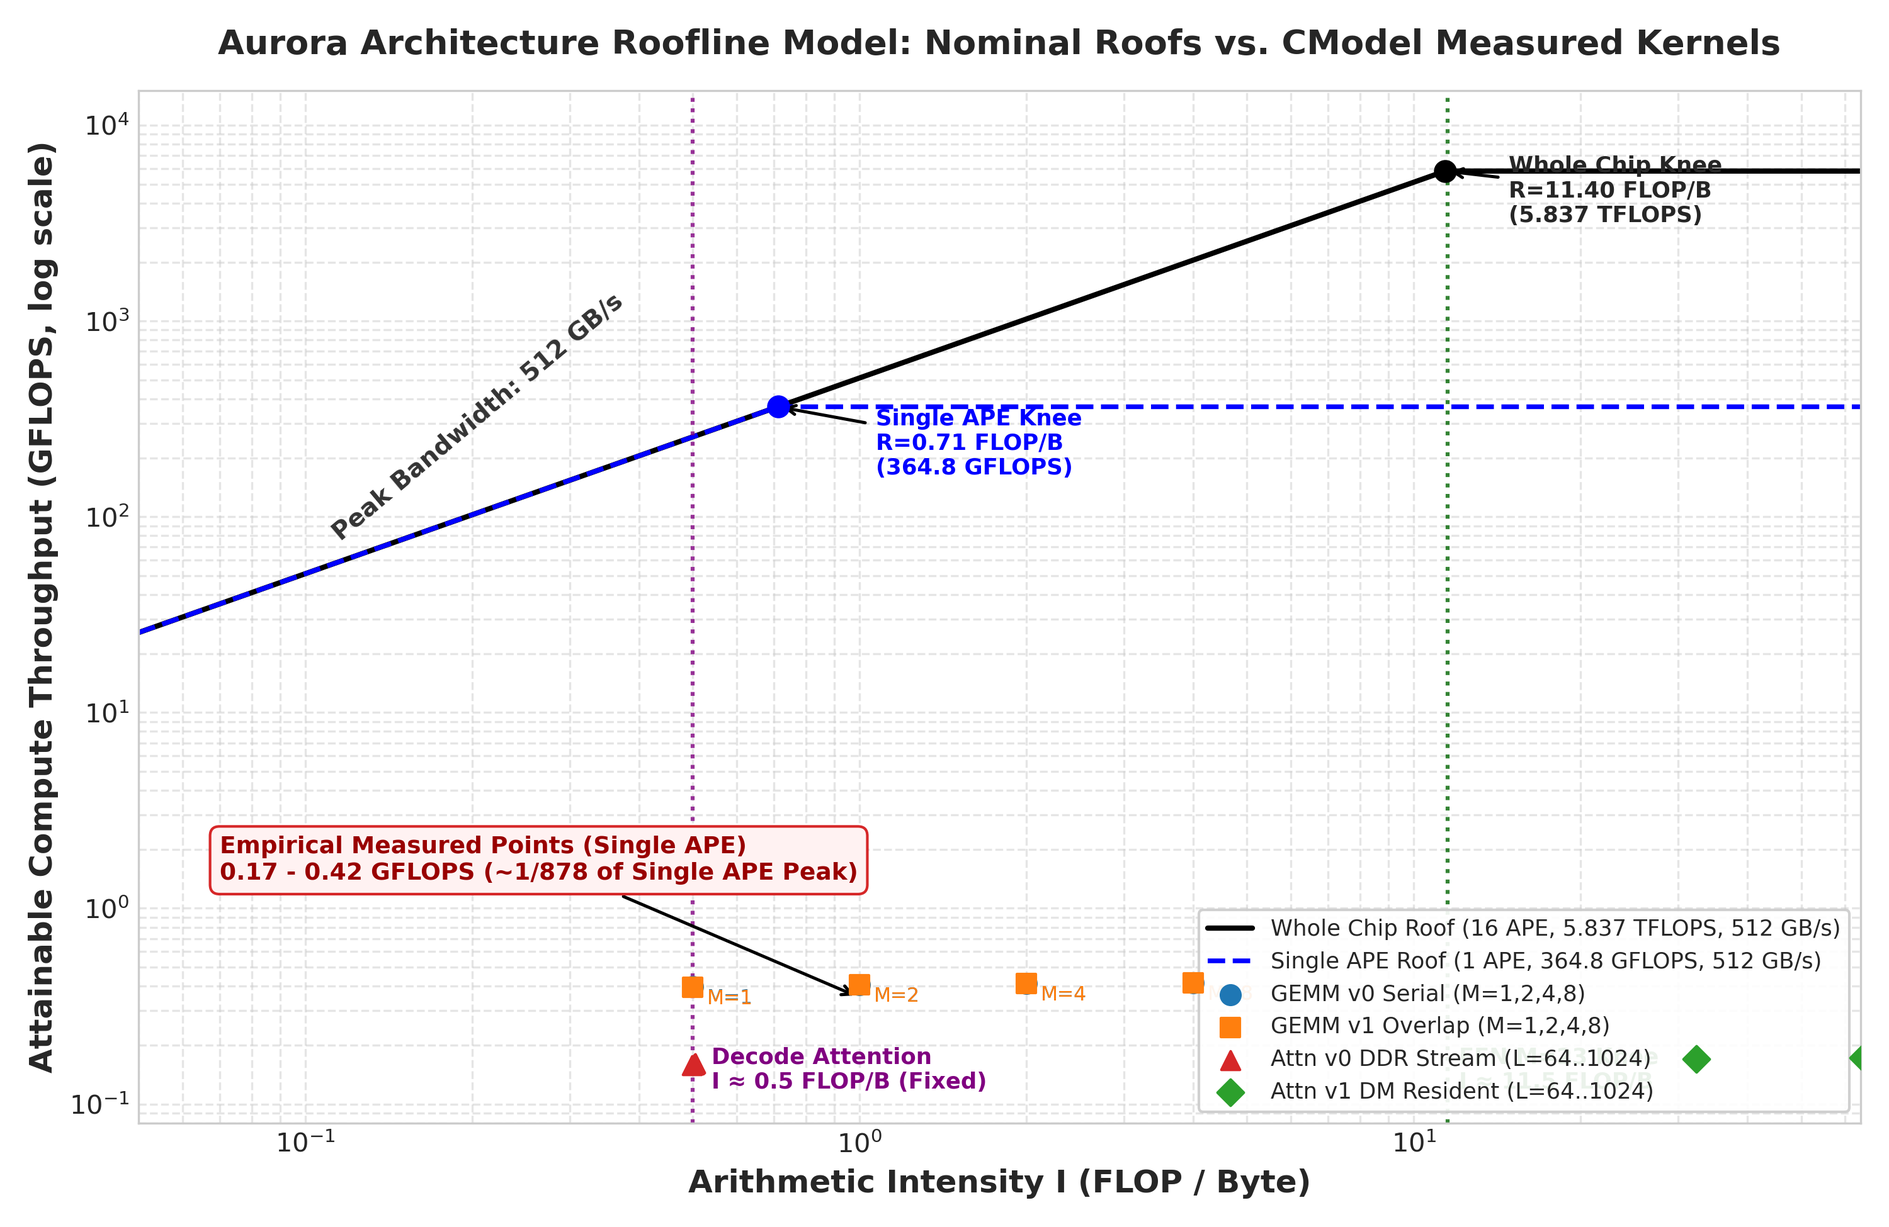
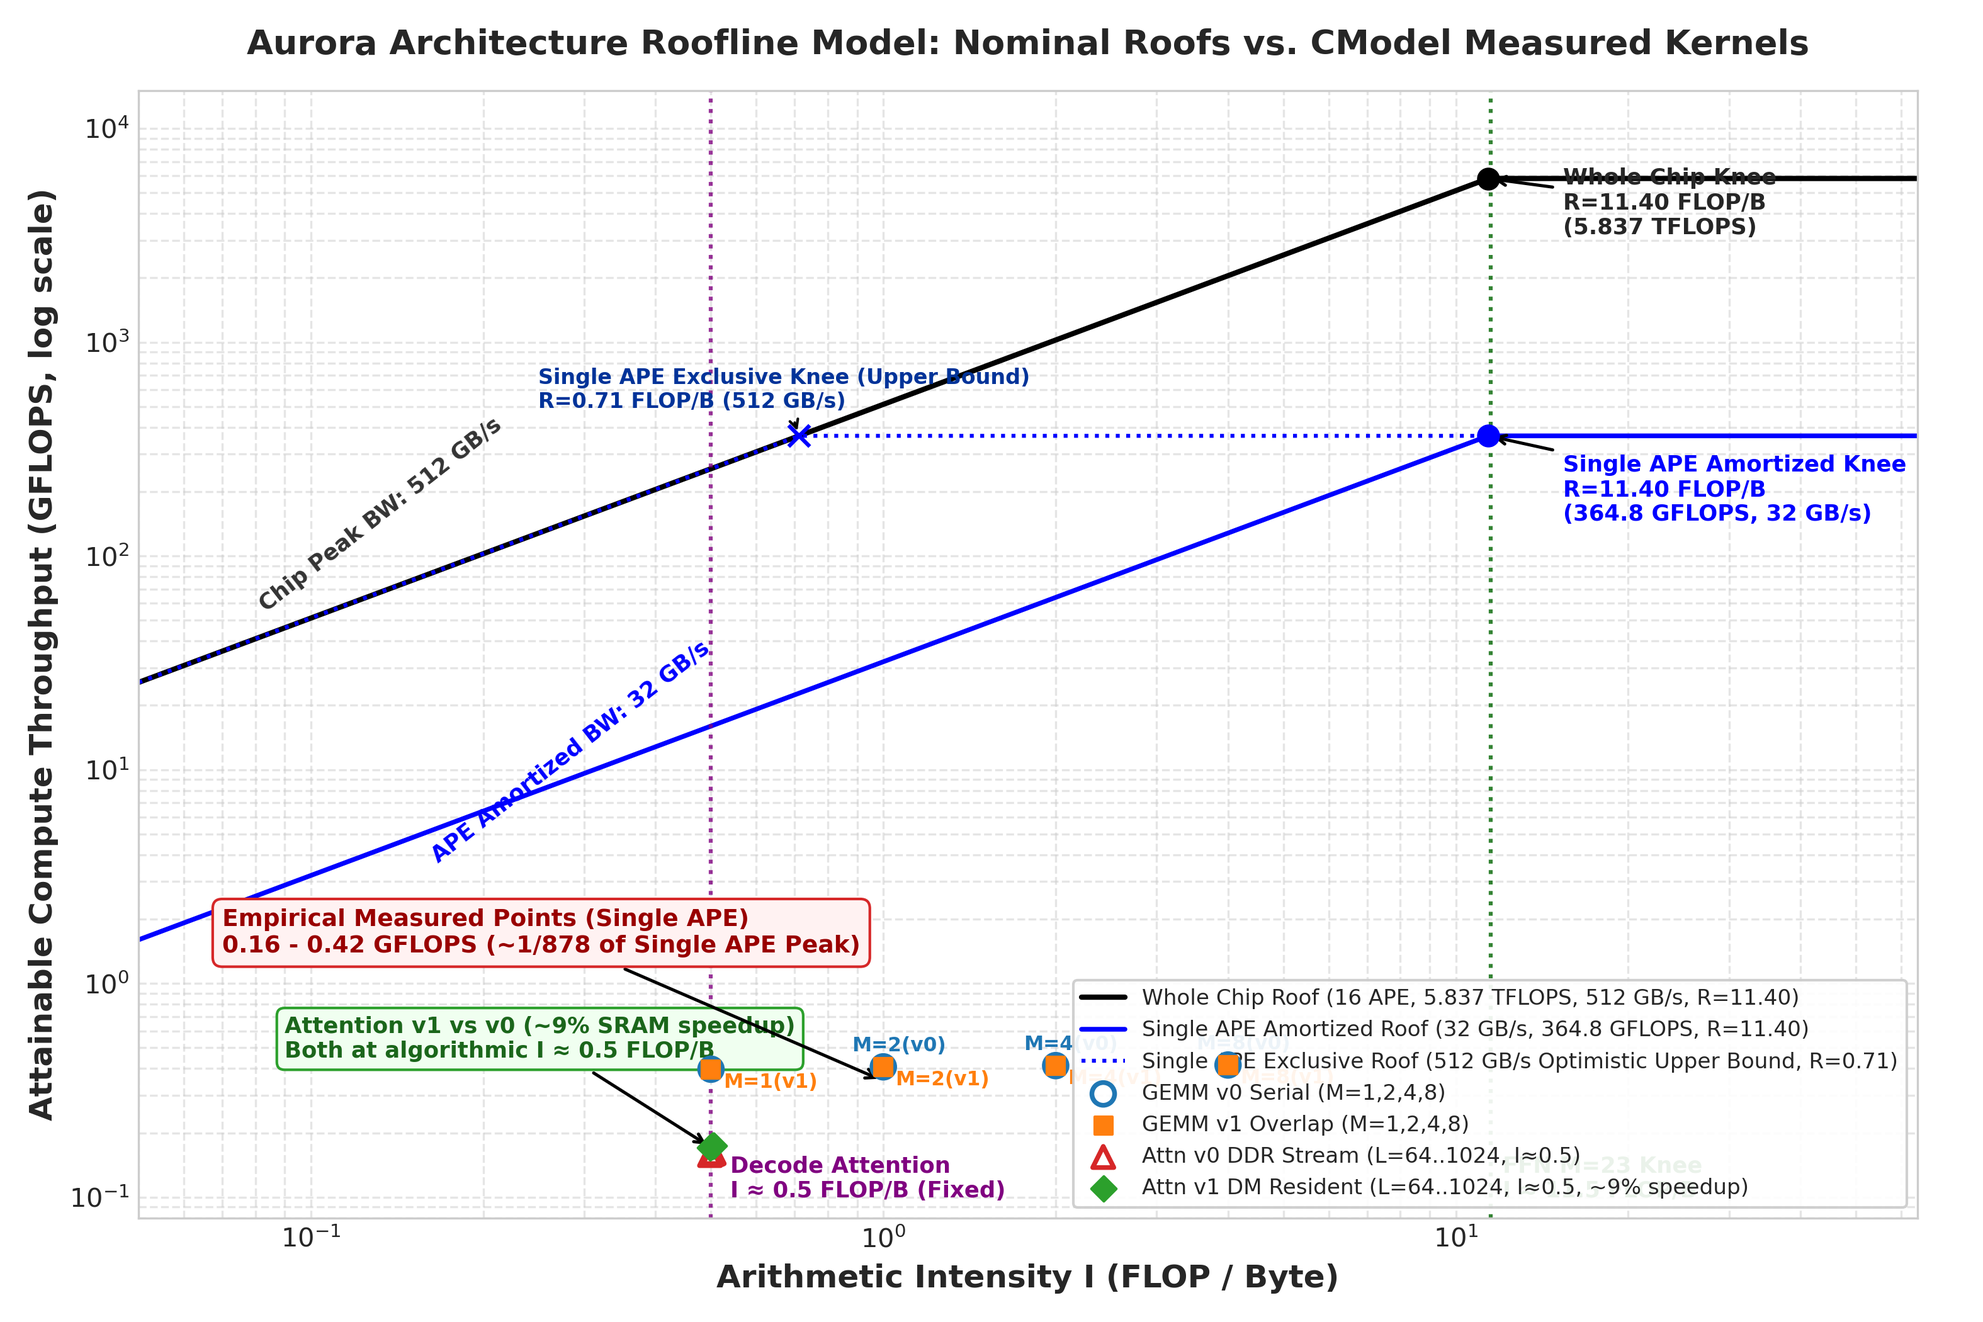
fix(roofline): unify bandwidth caliber to amortized 32GB/s with exclusive upper bound, fix attention v1 intensity to 0.5, and resolve marker occlusion

diff --git a/scripts/plot.py b/scripts/plot.py
@@ -207,16 +207,19 @@ def plot_roofline():
     gemm_path = os.path.join(RESULTS_DIR, "gemm.csv")
     attn_path = os.path.join(RESULTS_DIR, "decode_attn.csv")
 
-    fig, ax = plt.subplots(figsize=(10, 6.5), dpi=300)
+    fig, ax = plt.subplots(figsize=(10.5, 7.0), dpi=300)
 
     # 1. Hardware Specifications (Vendor derived)
-    peak_bw = 512.0  # GB/s
-    peak_flops_chip = 5836.8  # GFLOPS (5.837 TFLOPS)
-    peak_flops_ape = 364.8    # GFLOPS (Single APE)
+    peak_bw_chip = 512.0          # GB/s (Whole chip GDDR6)
+    peak_bw_ape_amortized = 512.0 / 16.0  # 32.0 GB/s (Amortized per APE)
+    peak_flops_chip = 5836.8      # GFLOPS (5.837 TFLOPS)
+    peak_flops_ape = 364.8        # GFLOPS (Single APE)
     freq_ghz = 1.425
 
-    r_chip = peak_flops_chip / peak_bw  # 11.40 FLOP/byte
-    r_ape = peak_flops_ape / peak_bw    # 0.7125 FLOP/byte
+    # Knee points (R = FLOPs / Byte)
+    r_chip = peak_flops_chip / peak_bw_chip                  # 11.40 FLOP/byte
+    r_ape_amortized = peak_flops_ape / peak_bw_ape_amortized  # 11.40 FLOP/byte (Scale-invariant)
+    r_ape_exclusive = peak_flops_ape / peak_bw_chip          # 0.7125 FLOP/byte (Optimistic upper bound)
 
     # X range for intensity
     i_min = 0.05
@@ -224,66 +227,104 @@ def plot_roofline():
     i_vals = np.logspace(np.log10(i_min), np.log10(i_max), 500)
 
     # Roofline curves
-    roof_chip = np.minimum(peak_bw * i_vals, peak_flops_chip)
-    roof_ape = np.minimum(peak_bw * i_vals, peak_flops_ape)
+    roof_chip = np.minimum(peak_bw_chip * i_vals, peak_flops_chip)
+    roof_ape_amortized = np.minimum(peak_bw_ape_amortized * i_vals, peak_flops_ape)
+    roof_ape_exclusive = np.minimum(peak_bw_chip * i_vals, peak_flops_ape)
 
     # Plot roofs
-    ax.plot(i_vals, roof_chip, 'k-', linewidth=2.0, label='Whole Chip Roof (16 APE, 5.837 TFLOPS, 512 GB/s)')
-    ax.plot(i_vals, roof_ape, 'b--', linewidth=1.8, label='Single APE Roof (1 APE, 364.8 GFLOPS, 512 GB/s)')
+    ax.plot(i_vals, roof_chip, 'k-', linewidth=2.0, label='Whole Chip Roof (16 APE, 5.837 TFLOPS, 512 GB/s, R=11.40)')
+    ax.plot(i_vals, roof_ape_amortized, 'b-', linewidth=1.8, label='Single APE Amortized Roof (32 GB/s, 364.8 GFLOPS, R=11.40)')
+    ax.plot(i_vals, roof_ape_exclusive, 'b:', linewidth=1.5, label='Single APE Exclusive Roof (512 GB/s Optimistic Upper Bound, R=0.71)')
 
-    # Bandwidth slope text
-    ax.text(0.11, 512 * 0.11 * 1.35, 'Peak Bandwidth: 512 GB/s', rotation=40, fontsize=9.5, fontweight='bold', color='#333333')
+    # Bandwidth slope texts
+    ax.text(0.08, 512 * 0.08 * 1.35, 'Chip Peak BW: 512 GB/s', rotation=38, fontsize=8.5, fontweight='bold', color='#333333')
+    ax.text(0.16, 32 * 0.16 * 0.72, 'APE Amortized BW: 32 GB/s', rotation=38, fontsize=8.5, fontweight='bold', color='blue')
 
     # Knee points
     ax.scatter([r_chip], [peak_flops_chip], color='black', s=60, zorder=5)
     ax.annotate(f'Whole Chip Knee\nR={r_chip:.2f} FLOP/B\n(5.837 TFLOPS)',
-                xy=(r_chip, peak_flops_chip), xytext=(r_chip * 1.3, peak_flops_chip * 0.55),
+                xy=(r_chip, peak_flops_chip), xytext=(r_chip * 1.35, peak_flops_chip * 0.55),
                 arrowprops=dict(facecolor='black', arrowstyle='->', lw=1.2),
                 fontsize=8.5, fontweight='bold')
 
-    ax.scatter([r_ape], [peak_flops_ape], color='blue', s=60, zorder=5)
-    ax.annotate(f'Single APE Knee\nR={r_ape:.2f} FLOP/B\n(364.8 GFLOPS)',
-                xy=(r_ape, peak_flops_ape), xytext=(r_ape * 1.5, peak_flops_ape * 0.45),
+    ax.scatter([r_ape_amortized], [peak_flops_ape], color='blue', s=60, zorder=5)
+    ax.annotate(f'Single APE Amortized Knee\nR={r_ape_amortized:.2f} FLOP/B\n(364.8 GFLOPS, 32 GB/s)',
+                xy=(r_ape_amortized, peak_flops_ape), xytext=(r_ape_amortized * 1.35, peak_flops_ape * 0.40),
                 arrowprops=dict(facecolor='blue', arrowstyle='->', lw=1.2),
                 fontsize=8.5, fontweight='bold', color='blue')
 
+    ax.scatter([r_ape_exclusive], [peak_flops_ape], color='blue', marker='x', s=65, zorder=5)
+    ax.annotate(f'Single APE Exclusive Knee (Upper Bound)\nR={r_ape_exclusive:.2f} FLOP/B (512 GB/s)',
+                xy=(r_ape_exclusive, peak_flops_ape), xytext=(r_ape_exclusive * 0.35, peak_flops_ape * 1.35),
+                arrowprops=dict(facecolor='blue', arrowstyle='->', lw=1.0),
+                fontsize=8.0, fontweight='bold', color='#003399')
+
     # Vertical reference lines
     ax.axvline(0.5, color='purple', linestyle=':', linewidth=1.5, alpha=0.8)
-    ax.text(0.5 * 1.08, 0.12, 'Decode Attention\nI ≈ 0.5 FLOP/B (Fixed)', color='purple', fontsize=8.5, fontweight='bold')
+    ax.text(0.5 * 1.08, 0.10, 'Decode Attention\nI ≈ 0.5 FLOP/B (Fixed)', color='purple', fontsize=8.5, fontweight='bold')
 
     ax.axvline(23.0 / 2.0, color='darkgreen', linestyle=':', linewidth=1.5, alpha=0.8)
-    ax.text((23.0 / 2.0) * 1.05, 0.12, 'FFN M=23 Knee\nI ≈ 11.5 FLOP/B', color='darkgreen', fontsize=8.5, fontweight='bold')
+    ax.text((23.0 / 2.0) * 1.05, 0.10, 'FFN M=23 Knee\nI ≈ 11.5 FLOP/B', color='darkgreen', fontsize=8.5, fontweight='bold')
 
     # 2. Empirical Measured Data Points strictly from CSVs
     if os.path.exists(gemm_path):
         df_g = read_measured_csv(gemm_path)
         g_agg = df_g.groupby(['version', 'M'])[['flops_per_cycle']].mean().reset_index()
-        for ver, color, marker, lbl in [('v0', '#1f77b4', 'o', 'GEMM v0 Serial (M=1,2,4,8)'),
-                                        ('v1', '#ff7f0e', 's', 'GEMM v1 Overlap (M=1,2,4,8)')]:
-            sub = g_agg[g_agg['version'] == ver].sort_values('M')
-            if not sub.empty:
-                i_gemm = sub['M'].values / 2.0  # I = M / 2
-                gflops_gemm = sub['flops_per_cycle'].values * freq_ghz
-                ax.scatter(i_gemm, gflops_gemm, color=color, marker=marker, s=55, label=lbl, zorder=6)
-                for _, row in sub.iterrows():
-                    m_val = int(row['M'])
-                    x_pt = m_val / 2.0
-                    y_pt = row['flops_per_cycle'] * freq_ghz
-                    ax.text(x_pt * 1.06, y_pt * 0.82, f"M={m_val}", fontsize=7.5, color=color)
+
+        # GEMM v0: hollow blue circle
+        sub_v0 = g_agg[g_agg['version'] == 'v0'].sort_values('M')
+        if not sub_v0.empty:
+            i_gemm_v0 = sub_v0['M'].values / 2.0  # I = M / 2
+            gflops_gemm_v0 = sub_v0['flops_per_cycle'].values * freq_ghz
+            ax.scatter(i_gemm_v0, gflops_gemm_v0, facecolors='none', edgecolors='#1f77b4', marker='o', s=75, linewidth=1.8, label='GEMM v0 Serial (M=1,2,4,8)', zorder=6)
+            for _, row in sub_v0.iterrows():
+                m_val = int(row['M'])
+                x_pt = m_val / 2.0
+                y_pt = row['flops_per_cycle'] * freq_ghz
+                ax.text(x_pt * 0.88, y_pt * 1.18, f"M={m_val}(v0)", fontsize=7.5, color='#1f77b4', fontweight='bold')
+
+        # GEMM v1: solid orange square
+        sub_v1 = g_agg[g_agg['version'] == 'v1'].sort_values('M')
+        if not sub_v1.empty:
+            i_gemm_v1 = sub_v1['M'].values / 2.0  # I = M / 2
+            gflops_gemm_v1 = sub_v1['flops_per_cycle'].values * freq_ghz
+            ax.scatter(i_gemm_v1, gflops_gemm_v1, color='#ff7f0e', marker='s', s=45, label='GEMM v1 Overlap (M=1,2,4,8)', zorder=7)
+            for _, row in sub_v1.iterrows():
+                m_val = int(row['M'])
+                x_pt = m_val / 2.0
+                y_pt = row['flops_per_cycle'] * freq_ghz
+                ax.text(x_pt * 1.05, y_pt * 0.82, f"M={m_val}(v1)", fontsize=7.5, color='#ff7f0e', fontweight='bold')
 
     if os.path.exists(attn_path):
         df_a = read_measured_csv(attn_path)
         a_agg = df_a.groupby(['version', 'L'])[['flops', 'total_bytes', 'device_cycles']].mean().reset_index()
-        for ver, color, marker, lbl in [('v0', '#d62728', '^', 'Attn v0 DDR Stream (L=64..1024)'),
-                                        ('v1', '#2ca02c', 'D', 'Attn v1 DM Resident (L=64..1024)')]:
-            sub = a_agg[a_agg['version'] == ver].sort_values('L')
-            if not sub.empty:
-                i_attn = (sub['flops'] / sub['total_bytes']).values
-                gflops_attn = (sub['flops'] / sub['device_cycles']).values * freq_ghz
-                ax.scatter(i_attn, gflops_attn, color=color, marker=marker, s=50, label=lbl, zorder=6)
+
+        # For Decode Attention, both v0 and v1 use complete algorithmic memory traffic:
+        # 2 * L * d * 4 + 512 bytes (with d=64, 512*L + 512 bytes)
+        # This places both v0 and v1 at I ≈ 0.5 FLOP/byte
+        sub_v0 = a_agg[a_agg['version'] == 'v0'].sort_values('L')
+        if not sub_v0.empty:
+            total_algo_bytes_v0 = 2 * sub_v0['L'].values * 64 * 4 + 512
+            i_attn_v0 = sub_v0['flops'].values / total_algo_bytes_v0
+            gflops_attn_v0 = (sub_v0['flops'].values / sub_v0['device_cycles'].values) * freq_ghz
+            ax.scatter(i_attn_v0, gflops_attn_v0, facecolors='none', edgecolors='#d62728', marker='^', s=65, linewidth=1.8, label='Attn v0 DDR Stream (L=64..1024, I≈0.5)', zorder=6)
+
+        sub_v1 = a_agg[a_agg['version'] == 'v1'].sort_values('L')
+        if not sub_v1.empty:
+            total_algo_bytes_v1 = 2 * sub_v1['L'].values * 64 * 4 + 512
+            i_attn_v1 = sub_v1['flops'].values / total_algo_bytes_v1
+            gflops_attn_v1 = (sub_v1['flops'].values / sub_v1['device_cycles'].values) * freq_ghz
+            ax.scatter(i_attn_v1, gflops_attn_v1, color='#2ca02c', marker='D', s=45, label='Attn v1 DM Resident (L=64..1024, I≈0.5, ~9% speedup)', zorder=7)
+
+        # Annotation highlighting the ~9% on-chip residency speedup at I≈0.5
+        ax.annotate("Attention v1 vs v0 (~9% SRAM speedup)\nBoth at algorithmic I ≈ 0.5 FLOP/B",
+                    xy=(0.50, 0.171), xytext=(0.09, 0.45),
+                    arrowprops=dict(facecolor='#2ca02c', arrowstyle='->', lw=1.2),
+                    bbox=dict(boxstyle="round,pad=0.35", fc="#f0fff0", ec="#2ca02c", lw=1),
+                    fontsize=8.5, fontweight='bold', color='#1b661b')
 
     # Empirical cluster annotation showing the ~1/878 gap
-    ax.annotate("Empirical Measured Points (Single APE)\n0.17 - 0.42 GFLOPS (~1/878 of Single APE Peak)",
+    ax.annotate("Empirical Measured Points (Single APE)\n0.16 - 0.42 GFLOPS (~1/878 of Single APE Peak)",
                 xy=(1.0, 0.35), xytext=(0.07, 1.4),
                 arrowprops=dict(facecolor='#d62728', arrowstyle='->', lw=1.2),
                 bbox=dict(boxstyle="round,pad=0.4", fc="#fff2f2", ec="#d62728", lw=1),
@@ -300,7 +341,7 @@ def plot_roofline():
                  fontsize=13, fontweight='bold', pad=14)
 
     ax.grid(True, which="both", ls="--", alpha=0.5)
-    ax.legend(loc='lower right', frameon=True, framealpha=0.92, fontsize=8.5)
+    ax.legend(loc='lower right', frameon=True, framealpha=0.92, fontsize=8.2)
 
     out_file = os.path.join(FIGURES_DIR, "roofline.png")
     fig.tight_layout()

diff --git a/notes/vendor_specs.md b/notes/vendor_specs.md
@@ -57,14 +57,25 @@
 4. **硬件时钟周期物理时长**：
    - 公式：$$1 \text{ cycle} = \frac{1}{1.425 \times 10^9 \text{ Hz}} \approx \mathbf{0.701754 \text{ ns}} \approx \mathbf{0.7018 \text{ ns}}$$（推导值，非厂商标称）
 
-5. **Roofline 理论拐点 $R$ (Arithmetic Intensity Turn-Point)**：
+5. **Roofline 理论拐点 $R$ (Arithmetic Intensity Turn-Point) 与片外带宽分配假设**：
    - 拐点公式：$$R = \frac{\text{理论峰值算力}}{\text{理论峰值带宽}}$$
-   - **整芯片口径**（16 APE 共享 512 GB/s 带宽）：
-     $$R_{\text{chip}} = \frac{5836.8 \text{ GFLOPS}}{512 \text{ GB/s}} = \mathbf{11.40 \text{ FLOP/byte}}$$（推导值，非厂商标称）
-   - **单 APC 口径**（4 APE 对应 512 GB/s 带宽）：
-     $$R_{\text{apc}} = \frac{1459.2 \text{ GFLOPS}}{512 \text{ GB/s}} = \mathbf{2.85 \text{ FLOP/byte}}$$（推导值，非厂商标称）
-   - **单 APE 口径**（单 APE 独立对应 512 GB/s 带宽，微基准口径）：
-     $$R_{\text{ape}} = \frac{364.8 \text{ GFLOPS}}{512 \text{ GB/s}} = \mathbf{0.7125 \text{ FLOP/byte}} \approx \mathbf{0.71 \text{ FLOP/byte}}$$（推导值，非厂商标称）
+   - **片外带宽分配假设与两种口径对比**：
+     - **均摊口径 (Amortized Caliber，主用/系统基准口径)**：
+       假设整芯片 512 GB/s 的 GDDR6 物理总带宽在 16 个 APE 间对称均摊。
+       - 单 APE 平均可用峰值带宽：$$512 \text{ GB/s} \div 16 = \mathbf{32 \text{ GB/s}}$$（折合单时钟周期 $32 \times 10^9 / 1.425 \times 10^9 \approx \mathbf{22.45 \text{ 字节/周期}}$，推导值，非厂商标称）
+       - 单 APC（4 APE）平均可用峰值带宽：$$512 \text{ GB/s} \div 4 = \mathbf{128 \text{ GB/s}}$$（推导值，非厂商标称）
+       - **尺度不变性**：当带宽按核数等比例分配时，拐点在整芯片、单 APC、单 APE 任何粒度下**恒为 11.40 FLOP/byte**：
+         $$R_{\text{chip}} = \frac{5836.8 \text{ GFLOPS}}{512 \text{ GB/s}} = \mathbf{11.40 \text{ FLOP/byte}}$$（推导值，非厂商标称）
+         $$R_{\text{apc}} = \frac{1459.2 \text{ GFLOPS}}{128 \text{ GB/s}} = \mathbf{11.40 \text{ FLOP/byte}}$$（推导值，非厂商标称）
+         $$R_{\text{ape}} = \frac{364.8 \text{ GFLOPS}}{32 \text{ GB/s}} = \mathbf{11.40 \text{ FLOP/byte}}$$（推导值，非厂商标称）
+       - **物理意义**：$R = 11.40\text{ FLOP/byte}$ 是 Aurora 芯片在整机并发运行时的真实系统平衡点。
+     - **独占口径 (Exclusive Caliber，单核乐观上界口径)**：
+       假设在单 APE 单线程运行的极端非并发基准下，单个 APE 独占整颗芯片全部 512 GB/s 的 GDDR6 带宽。
+       - 单 APE 独占拐点：
+         $$R_{\text{ape, exclusive}} = \frac{364.8 \text{ GFLOPS}}{512 \text{ GB/s}} = \mathbf{0.7125 \text{ FLOP/byte}} \approx \mathbf{0.71 \text{ FLOP/byte}}$$（推导值，非厂商标称）
+       - 单 APC 独占拐点：
+         $$R_{\text{apc, exclusive}} = \frac{1459.2 \text{ GFLOPS}}{512 \text{ GB/s}} = \mathbf{2.85 \text{ FLOP/byte}}$$（推导值，非厂商标称）
+       - **物理意义**：该口径代表单 APE 运行时能够获得的物理性能绝对乐观上界。在实际多核并发推理场景下，各核争用总线，平衡点回归至均摊口径的 $11.40\text{ FLOP/byte}$。
 
 ---
 

diff --git a/METHODOLOGY.md b/METHODOLOGY.md
@@ -77,6 +77,22 @@ workload_mult,loop_count,repeat,sim_ms,sim_cycles,device_cycles,wall_ms
    $$\text{有效带宽 (GB/s)} = \text{effective\_bw\_bytes\_per\_cycle} \times 1.425 \text{ GHz}$$
    严禁将该周期与外部 GDDR6 总线时钟或命令周期混淆。
 
+### 2.5 注意力算子访存量统计与常驻模式口径规范 (Attention Memory Traffic & Intensity Caliber)
+
+在微基准数据表与 `results/decode_attn.csv` 中，K2 Decode Attention 的 `v1`（片上 DM 常驻模式）记录的 `total_bytes = 512` 仅代表设备内核执行及计时窗口内实际发生的 Q（$d \times 4 = 256$ 字节）与 O（$d \times 4 = 256$ 字节）数据搬移。因为在 v1 模式下，全部 $K$ 与 $V$ Cache 已在计时开始前预置在片上 SRAM 中，计时窗口内无 KV 搬运。
+
+**方法学口径规范（硬性限定）**：
+1. **计时窗口搬运量 vs. 算法总访存量**：
+   - `v1` 的 512 字节仅为**计时窗口内的搬运量**，并非该注意力算子的**算法总访存量**。
+   - 完整的算法总访存量必须包含完整的 KV Cache 数据流，口径与 $v0$ 保持完全一致：
+     $$\text{Total Algorithmic Bytes} = 2 \times L \times d \times 4 + 512 \text{ 字节}$$
+     当隐藏层维度 $d=64$ 时，该值为 $512 \times L + 512$ 字节。
+2. **严禁用于计算算术强度或片外带宽**：
+   - 严禁将计时窗口内的 512 字节用于计算算子的算法算术强度（Arithmetic Intensity, $I$）或有效片外带宽。若用 512 字节计算，会导致 $I$ 虚高至 $32 \sim 512\text{ FLOP/byte}$，造成“片上常驻使 Attention 变成计算密集算子”的物理假象。
+   - 在体系结构分析与 Roofline 模型中，Attention 的算术强度必须按完整算法访存量统一计算：
+     $$I_{\text{Attn}} = \frac{\text{FLOPs}}{2 \cdot L \cdot d \cdot 4 + 512} \approx \frac{4 L d}{8 L d} \approx \mathbf{0.50 \text{ FLOP/byte}}$$
+     在此统一口径下，$v1$ 与 $v0$ 均精准定位于 $I \approx 0.50\text{ FLOP/byte}$ 的深访存受限区，且 $v1$ 的 y 轴算力吞吐高于 $v0$ 约 8.1% ~ 8.4%，直观反映片上 SRAM 常驻消除 DDR 搬运所带来的性能收益。
+
 ---
 
 ## 3. 统一计时封装 (`common/timer.h`)

diff --git a/SUMMARY.md b/SUMMARY.md
@@ -4,7 +4,7 @@
 在当前 CModel 记账方式下，测得单 APE 上 GEMM 与 Decode Attention 硬件周期，基于厂商回复建立了 Roofline 模型并完成 878 倍差距分解；但模型关闭流水线仿真，低精度与互联延迟等细节仍缺失。
 
 ## 二、已确立的结论
-1. **厂商标称参数明确推导出整芯片 5.837 TFLOPS 峰值与 11.40 拐点**：主频 1.425 GHz、8 条 FMA 发射、256-bit GDDR6 @ 512 GB/s，推导出单 APE 峰值 364.8 GFLOPS、整芯片 5.837 TFLOPS 与拐点 R=11.40 FLOP/byte。[来源：`notes/vendor_specs.md` §1、§2]
+1. **厂商标称参数推导整芯片 5.837 TFLOPS 峰值与 11.40 拐点**：主频 1.425 GHz、8 条 FMA 发射、256-bit GDDR6 @ 512 GB/s，均摊口径下单 APE 带宽 32 GB/s，推导整芯片 5.837 TFLOPS、单 APE 364.8 GFLOPS 与各尺度恒定拐点 R=11.40 FLOP/byte（独占上界 R=0.71）。[来源：`notes/vendor_specs.md` §1、§2]
 2. **完整 GEMM 算力距标称理论峰值存在 878 倍层级差距**：实测 GEMM M=8 为 0.2915 FLOPs/cycle（占峰值 256 FLOPs/cycle 的 0.114%），严格分解为 8×（微码发射未满）× 74×（编译缺乏流水）× 1.48×（循环外围开销）。[来源：`REPORT.md` §4.5，`results/gemm.csv`]
 3. **Decode Attention 片上常驻收益锁定在约 9% 且不随序列长度增长**：在当前 CModel 记账方式下，L=1024 时加速比为 1.0839x（2,348,945 / 2,167,110 = 1.0839x，节约 181,835 周期），与 L=64 时（1.0811x）基本一致，数据搬运已被编译器开销掩盖。[来源：`results/ablation.csv` 第 7、15 行，原始数据 `results/decode_attn.csv`]
 4. **Decode Attention 双缓冲流式预取在该模型记账下呈负收益**：因算子已被编译器开销压成计算受限，双缓冲在 L=1024 时的加速比为 0.9930x（2,348,945 / 2,365,550 = 0.9930x，增加 16,605 周期控制开销），无暴露搬运可重叠。[来源：`results/ablation.csv` 第 14 行，原始数据 `results/decode_attn.csv`]
